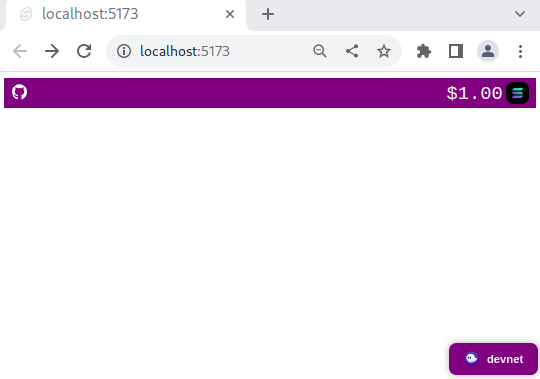
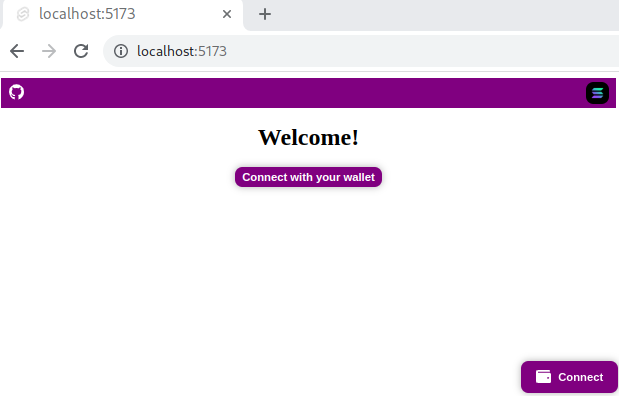
app: Update the local development screenshot (#30)
A snapshot of the current dApp development state.

diff --git a/app/src/routes/+page.svelte b/app/src/routes/+page.svelte
@@ -9,7 +9,7 @@
 	<h1 class="main">Welcome!</h1>
 
 	<div class="main">
-		<Button on:click={() => $page.data.connect()} shadow>Connect to the wallet</Button>
+		<Button on:click={() => $page.data.connect()} shadow>Connect with your wallet</Button>
 	</div>
 {:else}
 	<Multisig />
